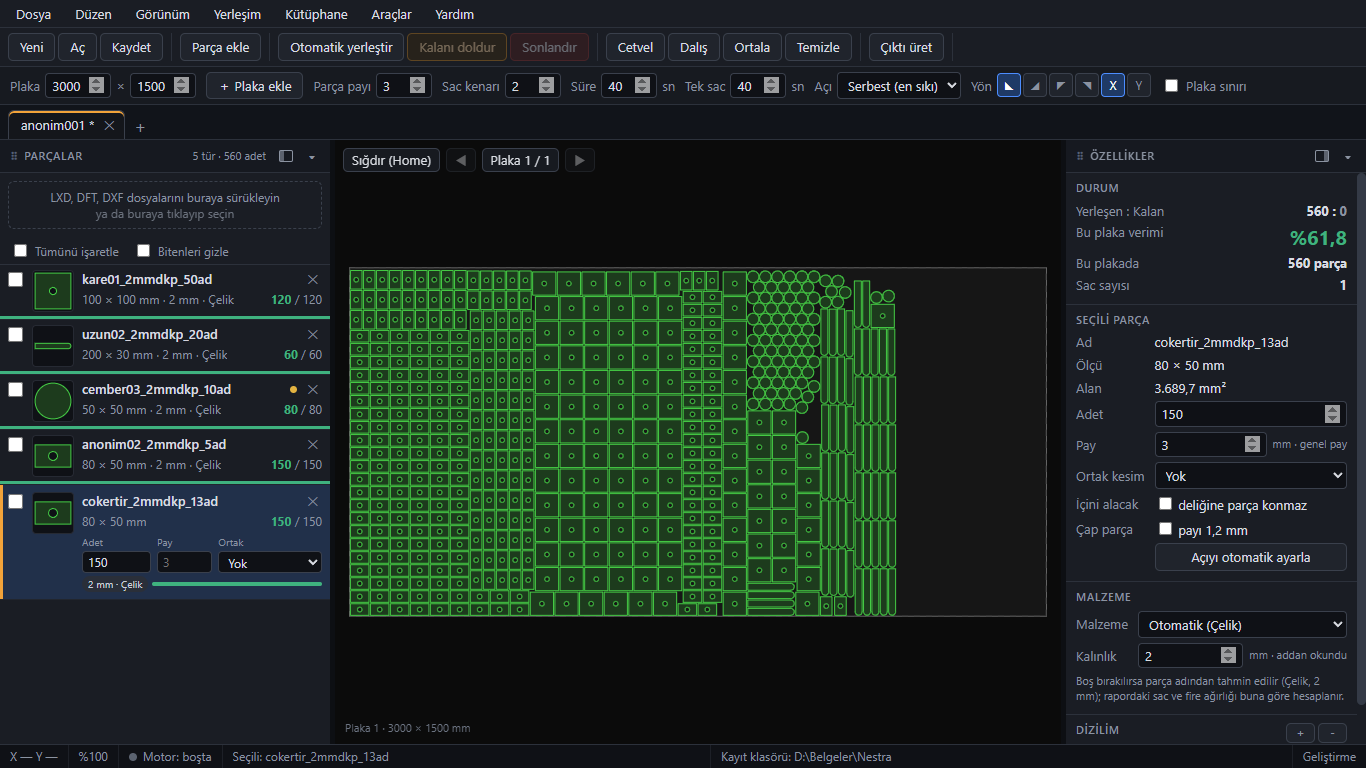
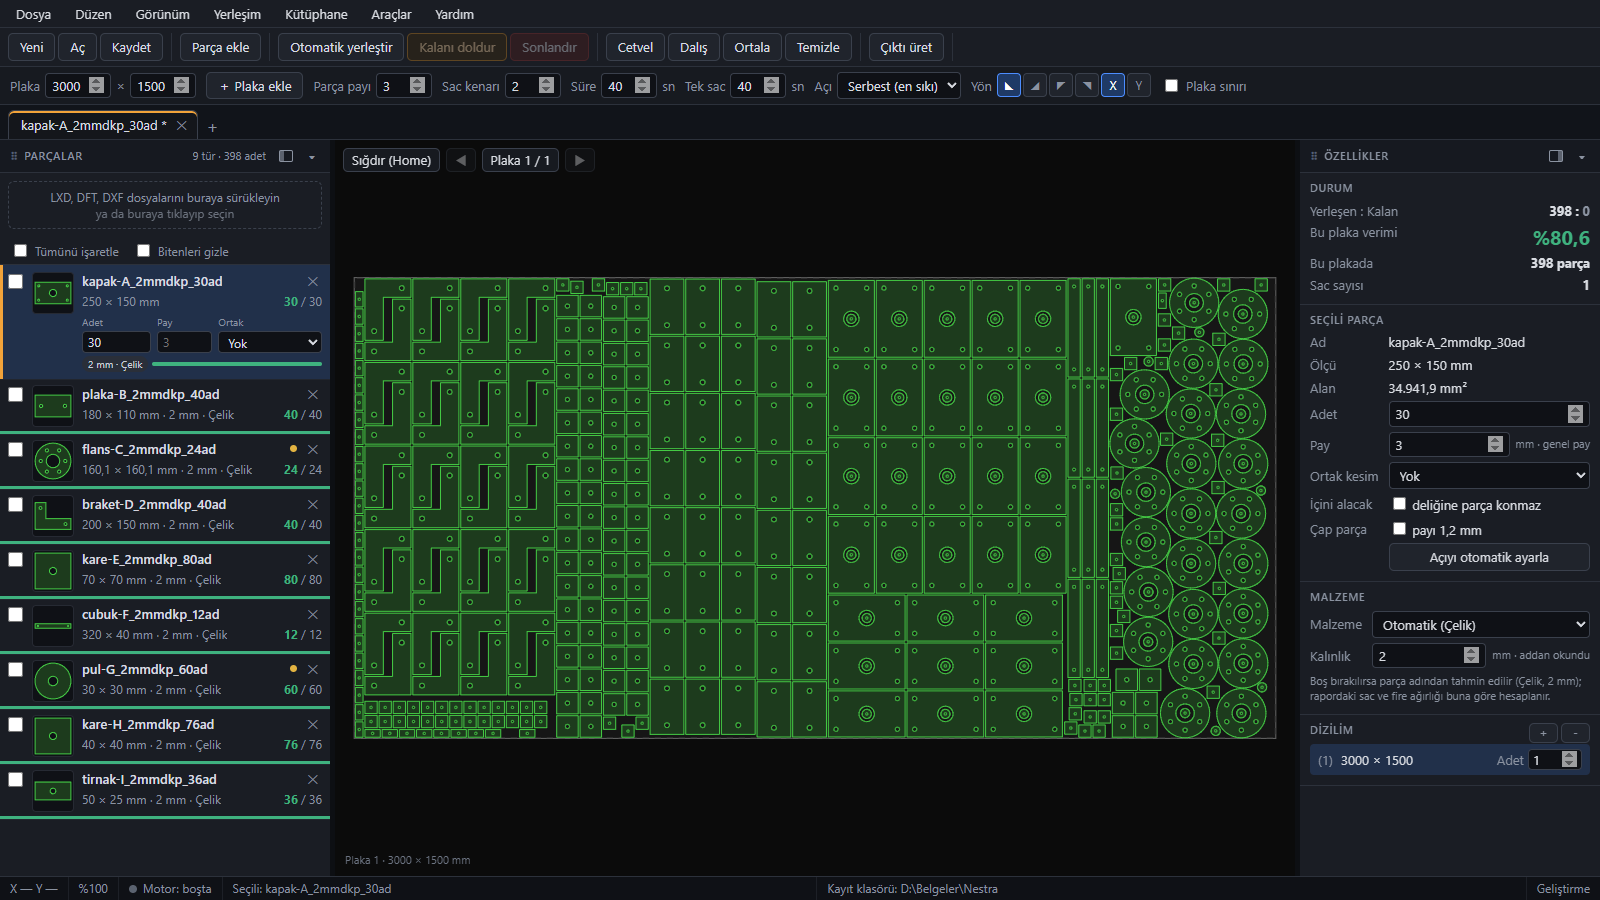
README: dizilim motoru bölümü, dolu plakalı yeni ekran görüntüleri
Ana ekran görüntüsü yeniden çekildi (398 parça, tek plaka, küçük parçalar aralarda).
Sac seçimi ve çıktı görüntüleri aynı işle yenilendi. README'ye motoru anlatan bölüm eklendi.

diff --git a/README.md b/README.md
@@ -2,17 +2,37 @@
 
 Lazer ve plazma kesimde parçaları sac plakaya dizen bir Windows programı. İnternet istemez, kurduğunuz bilgisayarda kendi başına çalışır.
 
-Kesim atölyelerinin günlük işi için, genel kullanıma göre yazdık. Parçaları atıyorsunuz, plakayı seçiyorsunuz, dizilimi ekranda görüyorsunuz, istediğiniz yeri elle düzeltip çıktıyı kesim programınıza veriyorsunuz.
+Asıl işi dizmek: parçaları plakaya en az sac harcayacak şekilde yerleştirir. Kesim atölyelerinin günlük işi için, genel kullanıma göre yazdık. Parçaları atıyorsunuz, plakayı seçiyorsunuz, dizilimi ekranda görüyorsunuz, istediğiniz yeri elle düzeltip çıktıyı kesim programınıza veriyorsunuz.
 
-![Nestra ana ekran: 3000 x 1500 plakaya dizilmiş 560 parça](ekran/01-ana-ekran.png)
+![Nestra ana ekran: 3000 x 1500 plakaya dizilmiş 398 parça](ekran/01-ana-ekran.png)
 
-*3000 x 1500 plaka, beş türden 560 parça, motor 40 saniye çalıştı. Hepsi tek plakaya sığdı.*
+*Örnek bir iş: 3000 x 1500 plaka, dokuz türden 398 parça. Motor 40 saniye çalıştı, hepsi tek plakaya sığdı, plaka verimi %80,6. Küçük parçalar büyüklerin arasındaki boşluklara ve deliklerine yerleşti.*
+
+## Dizilim motoru
+
+Programın en çok emek verdiğimiz kısmı yerleşim motoru. Atölyedeki gerçek işlerle, binlerce parçalı plakalara kadar denedik ve ayarladık.
+
+**Parçalar plakaya eklenir, belirli aralıklarla sıkıştırılır.** Motor plakaya uygun parçaları yerleştirir, sonra aralıklarla bütün dizilimi sıkıştırıp parçaları birbirine yaklaştırır. Kullanılan sac kısalır, kalan sac büyür.
+
+**En verimli hali binlerce deneme ile aranır.** Motor bilgisayarın çekirdeklerine dağılıp çok sayıda farklı dizilimi birlikte dener. Ekranda hep şimdiye kadarki en iyisi durur, sonuç hiçbir zaman kötüleşmez. "Süre" kutusuna yazdığınız süre boyunca dener, isterseniz "Sonlandır"la istediğiniz an bitirirsiniz.
+
+**Küçük parçalar boşlukları doldurur.** Büyük parçaların arasında ve deliklerinde kalan yerlere küçük parçalar yerleşir. Bir deliğe parça girmesini istemiyorsanız o parçada "deliğine parça konmaz"ı işaretlersiniz.
+
+**Aynı parçalar derli toplu dizilir.** Çok adetli parçalar sıra sıra, blok halinde, petek düzeninde ya da birbirine geçen çiftler olarak dizilir. Parçaları döndürerek en sıkı duruşu arar (açı varsayılan olarak serbest). Plakaya bakınca ne nerede olduğu anlaşılır.
+
+**Ortak kesim.** Seçtiğiniz parçalar kenar paylaşır, ortak kesim verirsiniz, motor buna göre dizer.
+
+**Elle koyduğunuza dokunmaz.** Elle yerleştirdiğiniz parçalar yerinde kalır, motor kalanı çevresine dizer.
+
+**Çakışmayı kabul etmez.** Motor bitirmeden dizilimi ayrıca denetler. Çakışma ya da payı bozan bir sonuç size sunulmaz.
+
+**Az sac harcamaya bakar.** Çok plakalı işlerde son sacı boşaltmaya çalışır. Birden fazla sac boyu varsa en az harcayanı seçer (aşağıda).
 
 ## Nasıl kullanılıyor
 
 LXD, DFT ya da DXF parça dosyalarını sol taraftaki alana sürükleyip bırakıyorsunuz. Her parçanın adedini, payını ve ortak kesim ayarını kartından, malzemesini ve kalınlığını sağ paneldeki özelliklerden değiştirirsiniz. Üst şeritte plaka ölçüsü, parça payı, sac kenarı ve motorun ne kadar çalışacağı var.
 
-"Otomatik yerleştir"e basınca motor ekrandaki plakayı dizer, bitince sonucu alırsınız. Dizilimi beğenmezseniz parçayı sürükler, döndürür, kopyalar, ortak kesim verir, cetvelle ölçersiniz. Ctrl+Z çalışır.
+"Otomatik yerleştir"e basınca motor ekrandaki plakayı dizer, bitince sonucu alırsınız. Dizilimi beğenmezseniz parçayı sürükler, döndürür, kopyalar, ortak kesim verir, cetvelle ölçersiniz. Ctrl+Z çalışır. Dalış noktaları kendiliğinden seçilir, isterseniz çizgiye tıklayıp elle taşırsınız.
 
 İş bitince "Çıktı üret": her dizilim için bir LXD ve bir DOC dosyası, isterseniz DXF de yazılır. DOC'ta plakanın resmi, verimi ve kesim süresi tahmini olur. Aynı dizilimin kopyaları (örneğin 5 adet aynı sac) tek dosya takımı olarak çıkar, sac sayısı DOC'ta yazar.
 
